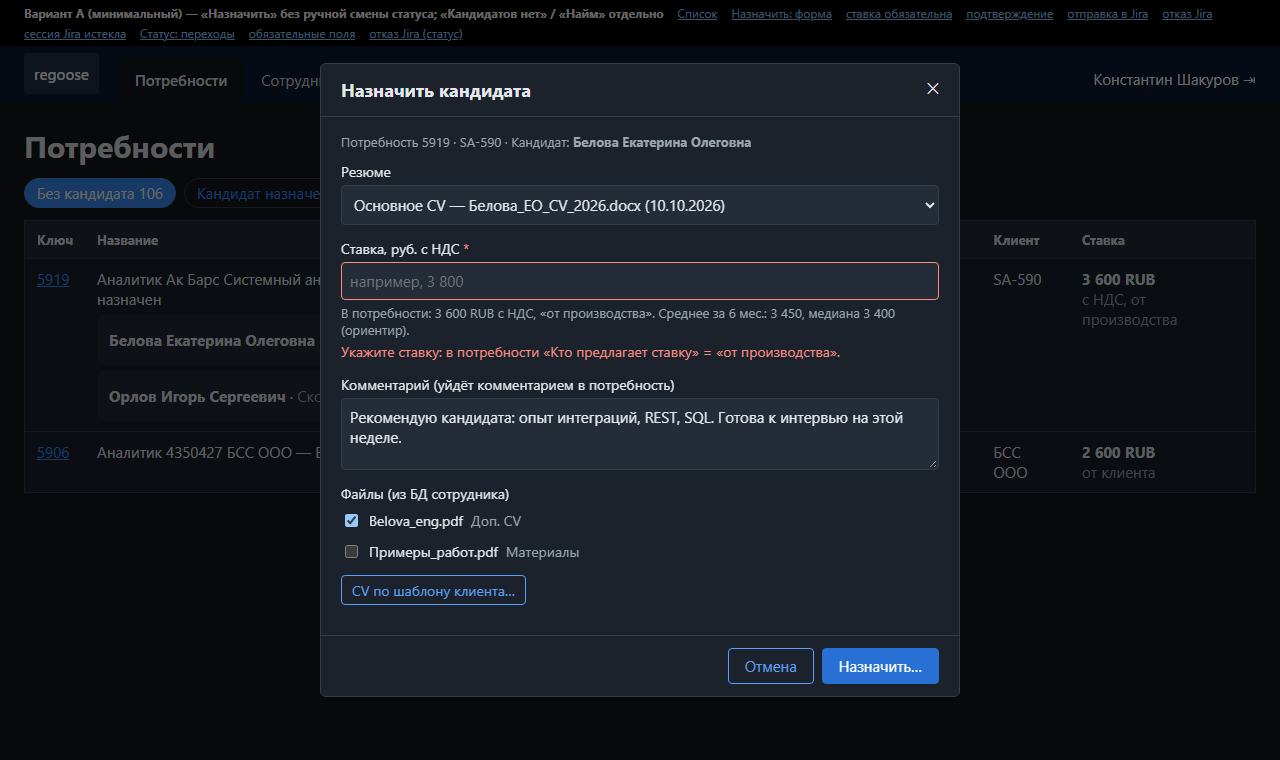
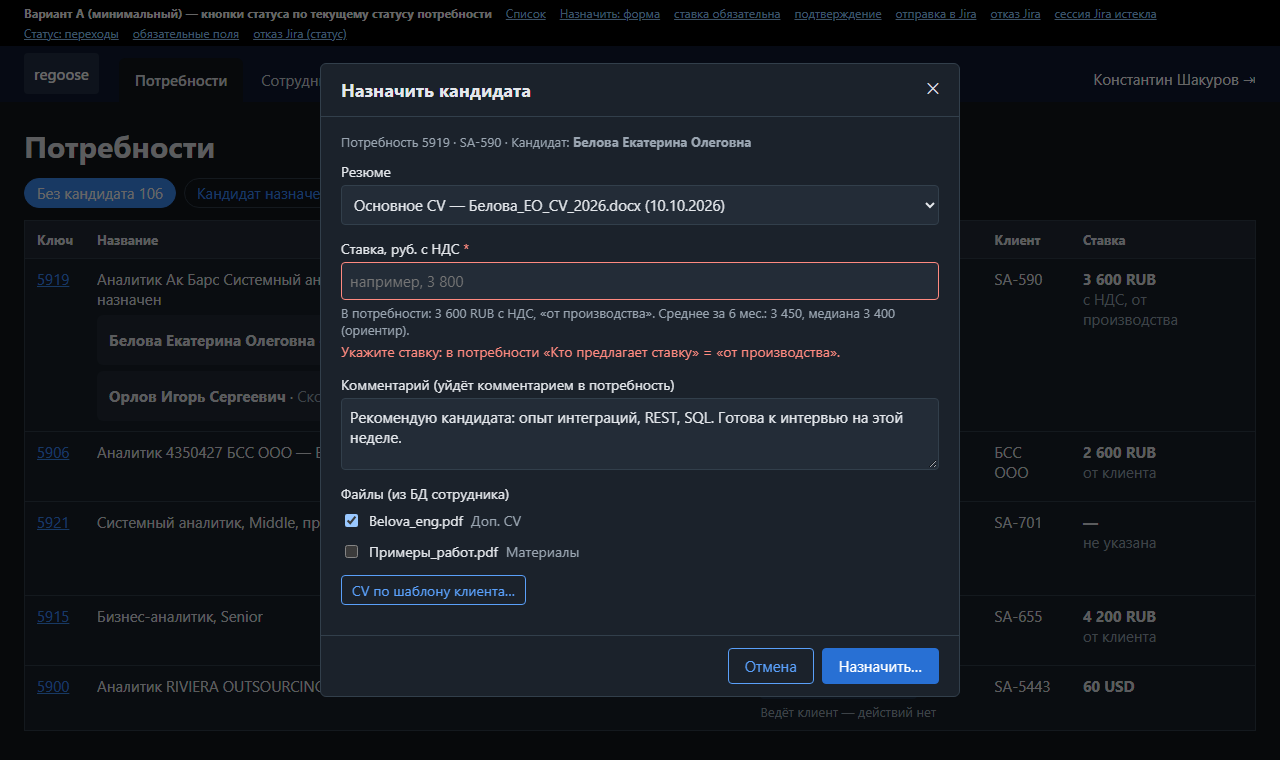
design: KON-79 status actions by current status (whitelist x Jira transitions), prototype list updated

diff --git a/design/KON-79/variant_a.html b/design/KON-79/variant_a.html
@@ -1,4 +1,4 @@
-<!doctype html><html lang="ru"><head><meta charset="utf-8"><title>KON-79 - Вариант A (минимальный) — «Назначить» без ручной смены статуса; «Кандидатов нет» / «Найм» отдельно</title>
+<!doctype html><html lang="ru"><head><meta charset="utf-8"><title>KON-79 - Вариант A (минимальный) — кнопки статуса по текущему статусу потребности</title>
 <meta name="viewport" content="width=device-width,initial-scale=1"><style>
 :root{--bg:#12171d;--panel:#1b222b;--panel-2:#232c37;--text:#e4e7eb;--muted:#9aa5b1;--border:#323f4b;--accent:#3e8ef7;--nav:#0f1b33;--err:#ff8a80;--ok:#34c38f;--warn:#f5b041;--primary:#2870d4;--primary-hover:#235fc0;--nav-text:#cbd2d9;--secondary:#5aa0fa;--sec-bg:rgba(90,160,250,.08);color-scheme:dark}
 @media (prefers-color-scheme:light){:root{--bg:#f4f6f8;--panel:#fff;--panel-2:#eef1f4;--text:#1f2933;--muted:#616e7c;--border:#cbd2d9;--accent:#1b66c9;--nav:#1f2933;--err:#b42318;--ok:#1a7f5a;--warn:#b7791f;--primary:#1f6fd6;--primary-hover:#1a5bb8;--secondary:#1a62c4;--sec-bg:rgba(26,98,196,.08);color-scheme:light}}
@@ -64,6 +64,9 @@ button.st{border:1px solid transparent;cursor:pointer;font:inherit;font-size:14p
 .sum{display:grid;grid-template-columns:150px 1fr;gap:6px 12px;font-size:14px}
 .sum dt{color:var(--muted)}.sum dd{margin:0}
 .ctx{font-size:13px;color:var(--muted);margin-bottom:12px}
+.acts{display:flex;gap:4px 14px;flex-wrap:wrap;margin-top:6px}
+.lnk{background:none;border:0;padding:0;font:inherit;color:var(--accent);cursor:pointer}
+.lnk:hover{text-decoration:underline}
 body[data-s="assign"] [data-v="assign"],
 body[data-s="assign_err"] [data-v="assign_err"],
 body[data-s="confirm"] [data-v="confirm"],
@@ -74,7 +77,7 @@ body[data-s="status"] [data-v="status"],
 body[data-s="status_req"] [data-v="status_req"],
 body[data-s="status_refused"] [data-v="status_refused"]{display:flex}
 </style></head><body>
-<div class="proto-bar"><b>Вариант A (минимальный) — «Назначить» без ручной смены статуса; «Кандидатов нет» / «Найм» отдельно</b> <a href="?s=list">Список</a> <a href="?s=assign">Назначить: форма</a> <a href="?s=assign_err">ставка обязательна</a> <a href="?s=confirm">подтверждение</a> <a href="?s=progress">отправка в Jira</a> <a href="?s=refused">отказ Jira</a> <a href="?s=reauth">сессия Jira истекла</a> <a href="?s=status">Статус: переходы</a> <a href="?s=status_req">обязательные поля</a> <a href="?s=status_refused">отказ Jira (статус)</a></div>
+<div class="proto-bar"><b>Вариант A (минимальный) — кнопки статуса по текущему статусу потребности</b> <a href="?s=list">Список</a> <a href="?s=assign">Назначить: форма</a> <a href="?s=assign_err">ставка обязательна</a> <a href="?s=confirm">подтверждение</a> <a href="?s=progress">отправка в Jira</a> <a href="?s=refused">отказ Jira</a> <a href="?s=reauth">сессия Jira истекла</a> <a href="?s=status">Статус: переходы</a> <a href="?s=status_req">обязательные поля</a> <a href="?s=status_refused">отказ Jira (статус)</a></div>
 <header class="topbar"><div class="logo">regoose</div><nav><a class="on" href="#">Потребности</a><a href="#">Сотрудники</a><a href="#">Резюме</a><a href="#">Настройки</a></nav><div class="u">Константин Шакуров ⇥</div></header>
 <main class="content"><h1>Потребности</h1>
 <div class="filter"><span class="chip on">Без кандидата 106</span><span class="chip">Кандидат назначен 51</span><span class="chip">Интервью 26</span><span class="chip">Закреплён 1</span><span class="chip">Прочие 319</span></div>
@@ -82,9 +85,9 @@ body[data-s="status_refused"] [data-v="status_refused"]{display:flex}
 <tr><td><a href="#">5919</a></td><td>Аналитик Ак Барс Системный аналитик, Бизнес аналитик Middle, Middle + Full time Не назначен
 <div class="cand"><span><b>Белова Екатерина Олеговна</b> · <span class="muted">Свободен</span></span><span class="pct">87%</span><button class="btn small sec">Резюме</button><button class="btn small primary">Назначить</button></div>
 <div class="cand"><span><b>Орлов Игорь Сергеевич</b> · <span class="muted">Скоро освобождается</span></span><span class="pct">72%</span><button class="btn small sec">Резюме</button><button class="btn small primary">Назначить</button></div></td>
-<td><span class="st">Поиск кандидата</span><div class="hint" style="margin-top:6px">Статус меняет Jira при назначении</div><div style="margin-top:8px;display:flex;gap:6px;flex-wrap:wrap"><button class="btn small sec">Кандидатов нет…</button><button class="btn small sec">Найм…</button></div></td><td>SA-590</td><td><b>3 600 RUB</b><div class="muted">с НДС, от производства</div></td></tr>
-<tr><td><a href="#">5906</a></td><td>Аналитик 4350427 БСС ООО — Выделенная команда Бизнес аналитик Middle</td><td><span class="st">Отказ по кандидату</span></td><td>БСС ООО</td><td><b>2 600 RUB</b><div class="muted">от клиента</div></td></tr>
-</tbody></table></main>
+<td><span class="st">Поиск кандидата</span><div class="acts"><button class="lnk">Найм</button><button class="lnk">Кандидатов нет</button></div></td><td>SA-590</td><td><b>3 600 RUB</b><div class="muted">с НДС, от производства</div></td></tr>
+<tr><td><a href="#">5906</a></td><td>Аналитик 4350427 БСС ООО — Выделенная команда Бизнес аналитик Middle</td><td><span class="st" style="background:#ff8a8022;color:var(--err)">Отказ по кандидату</span><div class="acts"><button class="lnk">Кандидат назначен</button></div></td><td>БСС ООО</td><td><b>2 600 RUB</b><div class="muted">от клиента</div></td></tr>
+<tr><td><a href="#">5921</a></td><td>Системный аналитик, Middle, проект «Тест»</td><td><span class="st" style="background:#9aa5b122;color:var(--muted)">Требуется кандидат</span><div class="acts"><button class="lnk">Поиск</button><button class="lnk">Найм</button><button class="lnk">Кандидатов нет</button></div></td><td>SA-701</td><td><b>—</b><div class="muted">не указана</div></td></tr><tr><td><a href="#">5915</a></td><td>Бизнес-аналитик, Senior</td><td><span class="st">Кандидатов нет</span><div class="acts"><button class="lnk">Поиск</button><button class="lnk">Найм</button></div></td><td>SA-655</td><td><b>4 200 RUB</b><div class="muted">от клиента</div></td></tr><tr><td><a href="#">5900</a></td><td>Аналитик RIVIERA OUTSOURCING</td><td><span class="st" style="background:#3e8ef722;color:var(--accent)">Интервью состоялось</span><div class="hint" style="margin-top:4px">Ведёт клиент — действий нет</div></td><td>SA-5443</td><td><b>60 USD</b></td></tr></tbody></table></main>
 <div class="backdrop" data-v="assign"><div class="modal" role="dialog" aria-label="Назначить кандидата"><div class="m-head"><h2>Назначить кандидата</h2><span>✕</span></div><div class="m-body"><div class="ctx">Потребность 5919 · SA-590 · Кандидат: <b>Белова Екатерина Олеговна</b></div>
 <div class="field"><label>Резюме</label><select><option>Основное CV — Белова_ЕО_CV_2026.docx (10.10.2026)</option><option>Доп. CV — Belova_eng.pdf</option><option>CV по шаблону клиента — Ак Барс</option></select></div>
 <div class="field"><label>Ставка, руб. с НДС </label><input type="text" value="3 800" placeholder="например, 3 800">

diff --git a/design/KON-79/variant_b.html b/design/KON-79/variant_b.html
@@ -64,6 +64,9 @@ button.st{border:1px solid transparent;cursor:pointer;font:inherit;font-size:14p
 .sum{display:grid;grid-template-columns:150px 1fr;gap:6px 12px;font-size:14px}
 .sum dt{color:var(--muted)}.sum dd{margin:0}
 .ctx{font-size:13px;color:var(--muted);margin-bottom:12px}
+.acts{display:flex;gap:4px 14px;flex-wrap:wrap;margin-top:6px}
+.lnk{background:none;border:0;padding:0;font:inherit;color:var(--accent);cursor:pointer}
+.lnk:hover{text-decoration:underline}
 body[data-s="assign"] [data-v="assign"],
 body[data-s="assign_err"] [data-v="assign_err"],
 body[data-s="confirm"] [data-v="confirm"],

diff --git a/design/KON-79/variant_c.html b/design/KON-79/variant_c.html
@@ -64,6 +64,9 @@ button.st{border:1px solid transparent;cursor:pointer;font:inherit;font-size:14p
 .sum{display:grid;grid-template-columns:150px 1fr;gap:6px 12px;font-size:14px}
 .sum dt{color:var(--muted)}.sum dd{margin:0}
 .ctx{font-size:13px;color:var(--muted);margin-bottom:12px}
+.acts{display:flex;gap:4px 14px;flex-wrap:wrap;margin-top:6px}
+.lnk{background:none;border:0;padding:0;font:inherit;color:var(--accent);cursor:pointer}
+.lnk:hover{text-decoration:underline}
 body[data-s="assign"] [data-v="assign"],
 body[data-s="assign_err"] [data-v="assign_err"],
 body[data-s="confirm"] [data-v="confirm"],

diff --git a/design/KON-79/status_actions.md b/design/KON-79/status_actions.md
@@ -1,0 +1,42 @@
+# KON-79 — действия со статусом потребности: логика кнопок
+
+Основание: решение владельца 15.10.2026 (статусная модель Jira, скриншоты workflow «Department requirements workflow»), CR-005. Прототип: `variant_a.html` (список).
+
+## Правило
+В столбце «Статус» под чипом показываются **ссылки-кнопки** (синий текст без рамки, как «Правила клиента»). Кнопка показывается, только если выполнены оба условия:
+1. целевой статус входит в **белый список действий РН/РО/Presale**: «Поиск кандидата», «Кандидат назначен», «Найм», «Кандидатов нет»;
+2. Jira отдала этот переход для текущего статуса потребности (`GET /transitions`, FR-026) — права и workflow определяет Jira.
+
+Остальные переходы (интервью, закреплён, на проекте, отложено, неактуально и др.) ведут клиентская служба и автор потребности; в приложении их нет. Статусы без наших действий показывают пометку «Ведёт клиент — действий нет».
+
+## Матрица (исходное состояние → кнопки)
+| Статус потребности | Кнопки в столбце «Статус» | Назначение кандидата |
+|---|---|---|
+| Требуется кандидат | **Поиск**, **Найм**, **Кандидатов нет** | нет (сначала «Поиск») |
+| Поиск кандидата | **Найм**, **Кандидатов нет** | «Назначить» у кандидата → статус «Кандидат назначен» меняет Jira |
+| Кандидатов нет | **Поиск**, **Найм** | по запросу Jira (если отдаёт переход) |
+| Найм | **Поиск**, **Кандидатов нет** | по запросу Jira |
+| Кандидат назначен | **Поиск**, **Найм**, **Кандидатов нет** | повторное «Назначить» заменяет назначение (FR-010) |
+| Отказ по кандидату | **Кандидат назначен** (возврат) | — |
+| Прочие (Интервью…, Закреплён, На проекте, Отложено, Неактуально, …) | нет | нет |
+
+Подписи кнопок — как целевые статусы Jira, кроме «Поиск» (переход в «Поиск кандидата»). Матрица — стартовая; окончательный состав берётся из ответа Jira (п. 2 правила), поэтому расхождения диаграммы и реальных переходов не ломают UI.
+
+## Что происходит по кнопкам
+- **Поиск** — перевод в «Поиск кандидата»: подтверждение одним кликом (поля Jira — если запросит переход).
+- **Найм** — перевод в «Найм»: подтверждение, поля по запросу Jira.
+- **Кандидатов нет** — диалог: «Причина отсутствия кандидата» (справочник Jira, обязательна) и «Комментарий» (обязателен, видимость «для всех»).
+- **Кандидат назначен** (из «Отказ по кандидату») — подтверждение; кандидат и ставка не вводятся.
+- «Назначить» у кандидата — окно из варианта A; статус меняет Jira.
+Отказ Jira — текст как есть, введённое сохранено, «Повторить». После успеха потребность перечитывается, чип и кнопки обновляются.
+
+## Фильтры и настройки (замечания 1.1 и «Предложения 1»)
+- **«Требуется кандидат» и «Поиск кандидата» уже входят в группу «Без кандидата» по умолчанию** (FR-035; миграция `V007__status_groups_seed.sql`, `status_groups/rules.py`). На скриншоте «Настроек» оба видны чипами группы «Без кандидата» (… «Найм», «Отказ по кандидату», «Поиск кандидата», «Требуется кандидат»). Выпадающий список «Выберите статус» показывает только статусы **вне групп**, поэтому этих двух там нет — это не пропуск. Менять нечего.
+- Потребность в «Требуется кандидат» видна в приложении с первого опроса (JQL по типу «Аналитик», FR-028).
+- Источник потребности создаёт автор в статусе «Требуется кандидат»; переход в «Поиск кандидата» — по регламенту направления из нашей системы кнопкой «Поиск» (новое по сравнению с FR-011).
+
+## Изменения требований (в составе CR-005)
+- FR-011: статусы «Поиск кандидата», «Кандидатов нет», «Найм» (было: «Кандидатов нет» и «Найм»).
+- FR-026: белый список целевых статусов и пересечение с переходами Jira; без универсального выбора.
+- FR-008: статус «Кандидат назначен» при назначении меняет Jira; из «Отказ по кандидату» — кнопка возврата.
+- UC-002: сценарий по кнопкам выше.

diff --git a/design/KON-79/decision.md b/design/KON-79/decision.md
@@ -13,10 +13,7 @@
 - После успеха окно закрывается, статус потребности в списке обновляется из Jira (перечитывание).
 - Файлы и комментарий статус не меняют (учитывается в тексте подтверждения).
 
-**Статус (FR-011):**
-- В строке потребности — вторичные действия «Кандидатов нет…» и «Найм…» (также доступны из пустого результата сопоставления, FR-036).
-- «Кандидатов нет» — обязательные «Причина отсутствия кандидата» (справочник Jira) и «Комментарий» (видимость «для всех»); «Найм» — поля по запросу Jira. Отказ Jira — текст как есть, введённое сохранено.
-- Универсального списка переходов и меню «Сменить статус» нет.
+**Статус (FR-011, FR-026):** ссылки-кнопки в столбце «Статус» по текущему статусу потребности — матрица и правила в `status_actions.md` (белый список «Поиск», «Найм», «Кандидатов нет», «Кандидат назначен» ∩ переходы Jira). «Кандидатов нет» — диалог с причиной и комментарием; остальные — подтверждение одним кликом. Универсального списка переходов нет. Отказ Jira — текст как есть, введённое сохранено.
 
 ## Токены и стили
 Существующие токены; secondary — `--secondary`, основная кнопка `--primary`; новых токенов нет.
